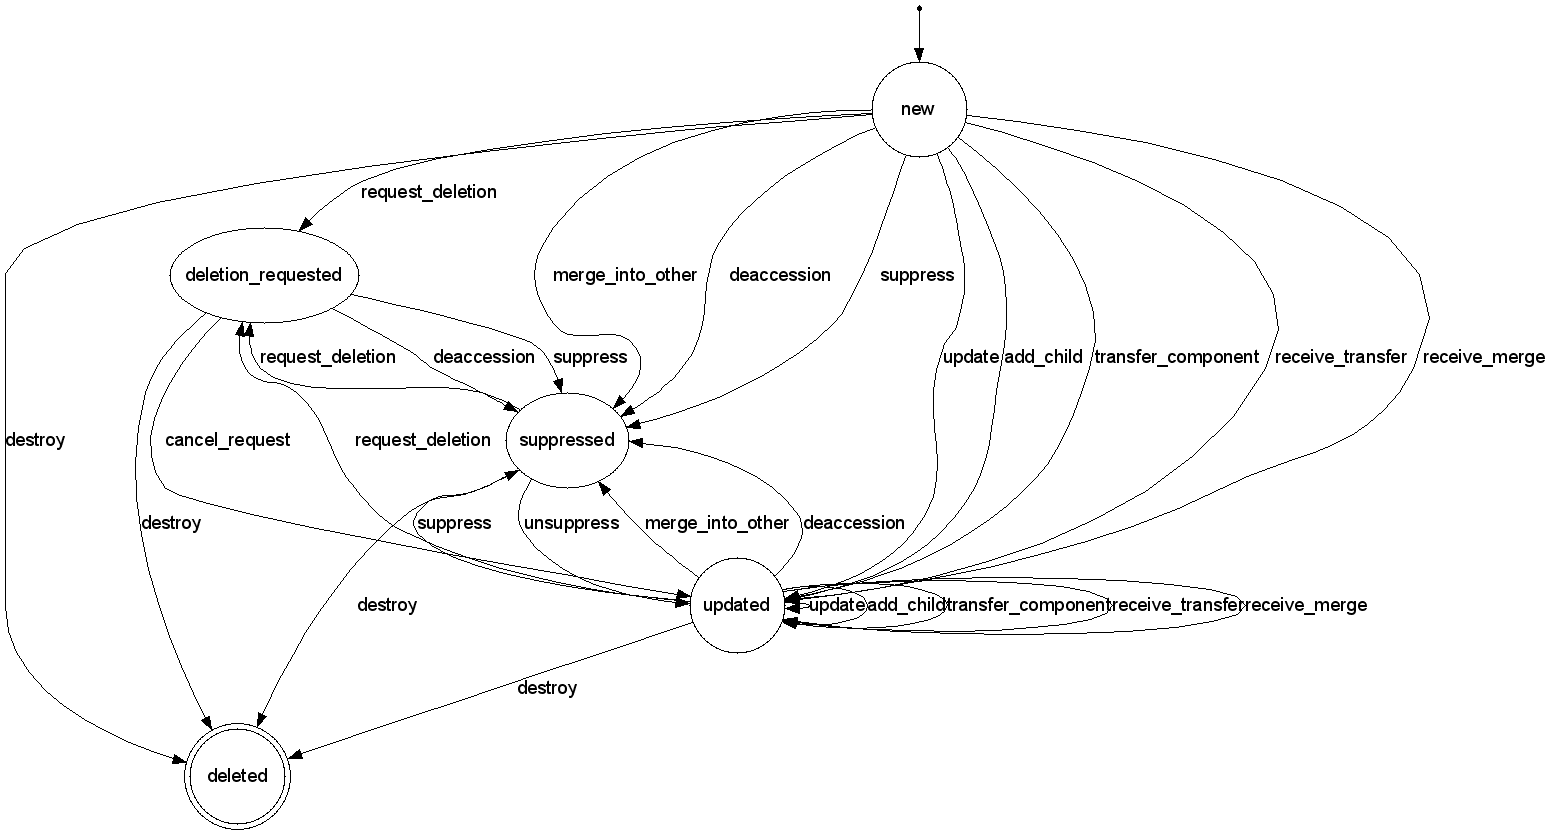
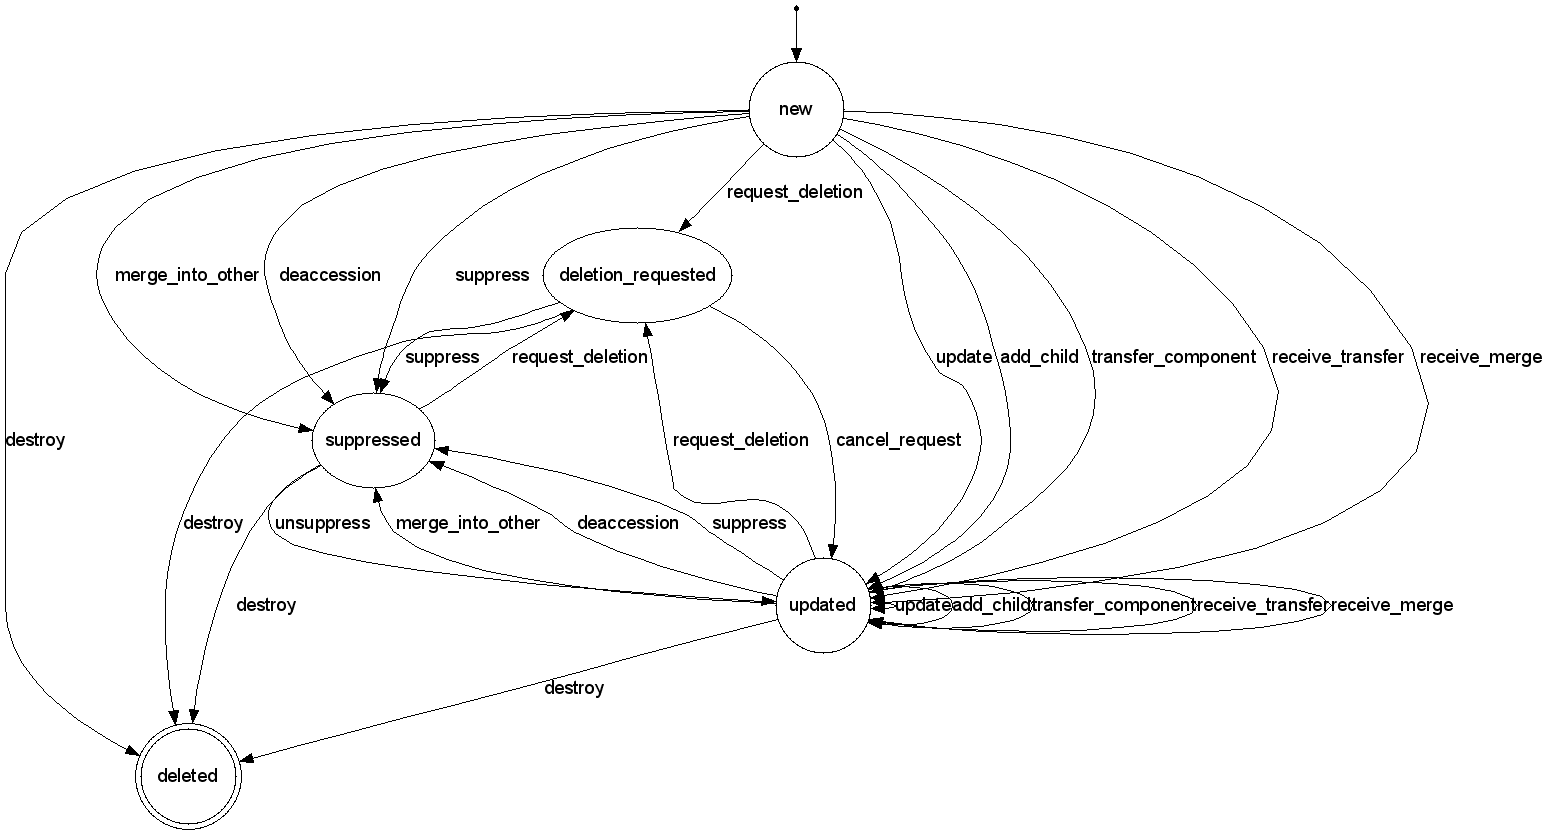
Can't deaccession something that is requested for deletion

diff --git a/archival_object.rb b/archival_object.rb
@@ -9,7 +9,7 @@ class ArchivalObject
     
     event :deaccession do
       # doesn't account for partial deaccessions
-      transition all - [:suppressed, :deleted] => :suppressed
+      transition all - [:suppressed, :deleted, :deletion_requested] => :suppressed
     end
     
     event :suppress do
